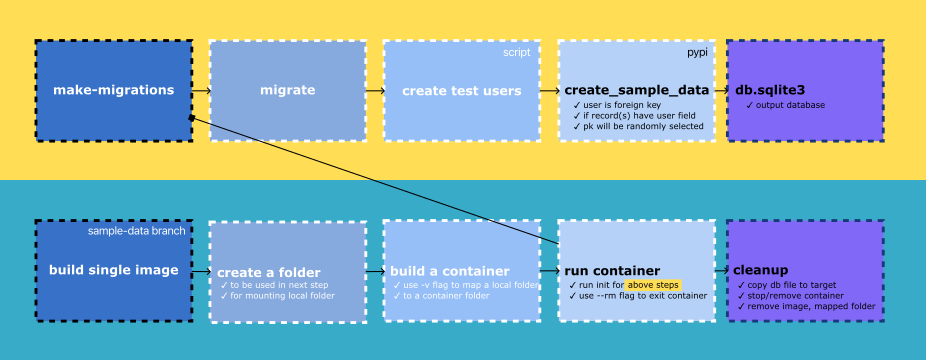
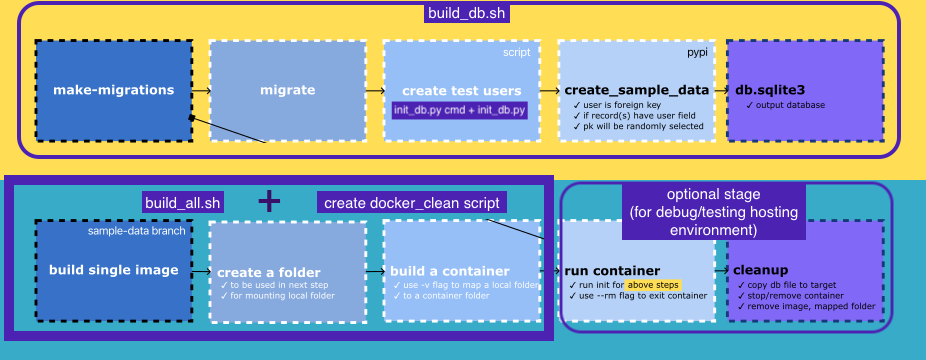
fixes django_sample_generator settings, adds image model, adds docker stages for sample data

diff --git a/scripts/sample_data/init_db.py b/scripts/sample_data/init_db.py
@@ -1,0 +1,37 @@
+'''
+for manual run in django shell:
+- python manage.py shell --settings=temph.settings_base
+- > from ... import bulk_create_users
+- > bulk_create_users()
+'''
+
+from django.contrib.auth.hashers import make_password
+from django.contrib.auth.models import User
+from subprocess import run
+
+def bulk_create_users(fnames = ['first','second','third','fourth','fifth']):
+    users = []
+    for name in fnames:
+        record = {'first_name':name, 'last_name':'user', 'username':f'user_{name}', 'email':f'{name}@user.com', 'password':make_password('pwd')}
+        users.append(User(**record))
+    
+    created = False
+    
+    try:
+        User.objects.bulk_create(users)
+        print(f'created {len(users)} records in user table')
+        created = True
+    except Exception as e:
+        print('exception in bulk_create')
+        print(e)
+    
+    return created
+
+def init_db():
+    users_created = bulk_create_users()
+    if users_created:
+        print('bulk_create_users: success')
+        exit(0)
+    else:
+        print('bulk_create_users: failure')
+        exit(1)

diff --git a/temphapis/management/commands/init_db.py b/temphapis/management/commands/init_db.py
@@ -1,0 +1,23 @@
+from django.conf import settings
+from django.core.management.base import BaseCommand
+from django.utils.module_loading import import_string
+
+
+class Command(BaseCommand):
+    verbosity = 0
+
+    def add_arguments(self, parser):
+        parser.add_argument("script", type=str)
+
+    def handle(self, *args, **options):
+        self.verbosity = options.get('verbosity')
+        self.script = options.get('script')
+        if len(self.script) < 3 or self.script is None: exit(1)
+        self.script = self.script.replace('/','.').rstrip('.')
+        try:
+            init_db = import_string(self.script + '.init_db.init_db')
+            init_db()
+        except Exception as e:
+            print('could not build db!')
+            print('exception:',e)
+            exit(1)

diff --git a/temphapis/migrations/0006_alter_image_user.py b/temphapis/migrations/0006_alter_image_user.py
@@ -1,0 +1,21 @@
+# Generated by Django 4.2.5 on 2023-12-25 21:39
+
+from django.conf import settings
+from django.db import migrations, models
+import django.db.models.deletion
+
+
+class Migration(migrations.Migration):
+
+    dependencies = [
+        migrations.swappable_dependency(settings.AUTH_USER_MODEL),
+        ('temphapis', '0005_remove_history_thumbnail_image'),
+    ]
+
+    operations = [
+        migrations.AlterField(
+            model_name='image',
+            name='user',
+            field=models.ForeignKey(on_delete=django.db.models.deletion.CASCADE, to=settings.AUTH_USER_MODEL, unique=True),
+        ),
+    ]

diff --git a/temphapis/generators.py b/temphapis/generators.py
@@ -1,5 +1,5 @@
 from django_sample_generator import generator
-from .models import History, UserHistory
+from .models import History, UserHistory, Image
 
 class HistoryGenerator(generator.ModelGenerator):
     class Meta:
@@ -9,7 +9,12 @@ class UserHistoryGenerator(generator.ModelGenerator):
     class Meta:
         model = UserHistory
 
+class ImageGenerator(generator.ModelGenerator):
+    class Meta:
+        model = Image
+
 generators = [
     HistoryGenerator(100),
-    UserHistoryGenerator(100)
+    UserHistoryGenerator(100),
+    ImageGenerator(5)
 ]

diff --git a/temphapis/models.py b/temphapis/models.py
@@ -9,5 +9,7 @@ class UserHistory(models.Model):
     item = models.CharField(max_length=100)
 
 class Image(models.Model):
-    user = models.ForeignKey(User, on_delete=models.CASCADE)
+    # OneToOneField causes error with django_sample_generator so
+    # ForeignKey with `unique=True` is used instead
+    user = models.ForeignKey(User, unique=True, on_delete=models.CASCADE)
     thumbnail = models.SlugField(null=True, blank=True, max_length=100)

diff --git a/temph/settings_base.py b/temph/settings_base.py
@@ -60,7 +60,8 @@ INSTALLED_APPS = [
     'temphapis.apps.TemphapisConfig',
     'rest_framework',
     'drf_yasg',
-    'rest_framework_simplejwt.token_blacklist'
+    'rest_framework_simplejwt.token_blacklist',
+    'django_sample_generator'
 ]
 
 
@@ -165,6 +166,6 @@ SIMPLE_JWT = {
 }
 
 
-SAMPLE_DATA_GENERATORS = (
+SAMPLE_DATA_GENERATORS = [
     'temphapis.generators'
-)
+]
